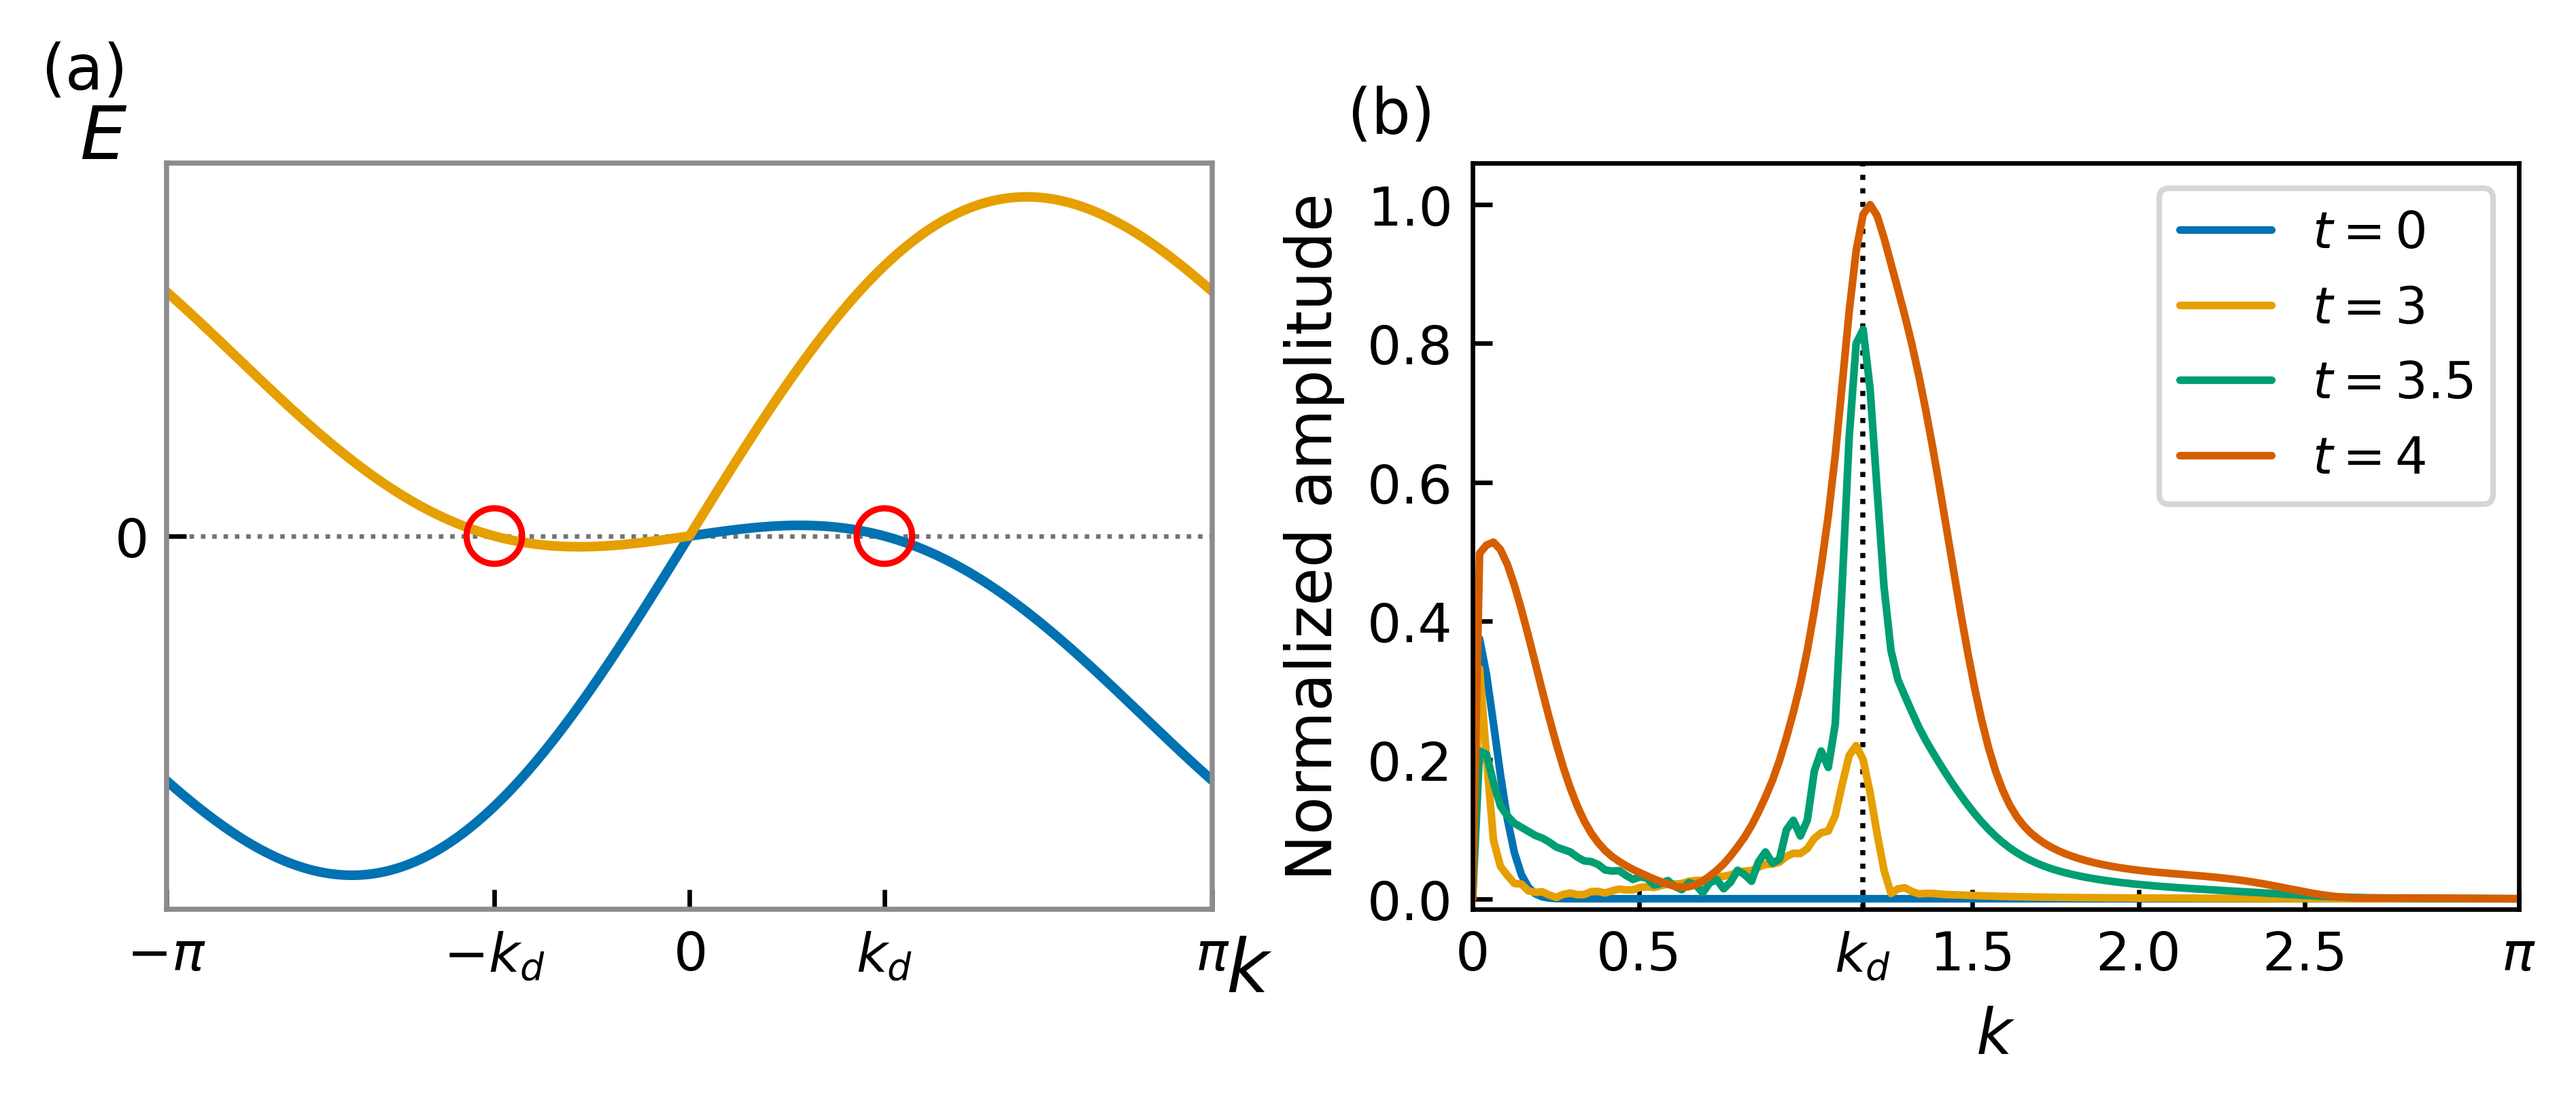
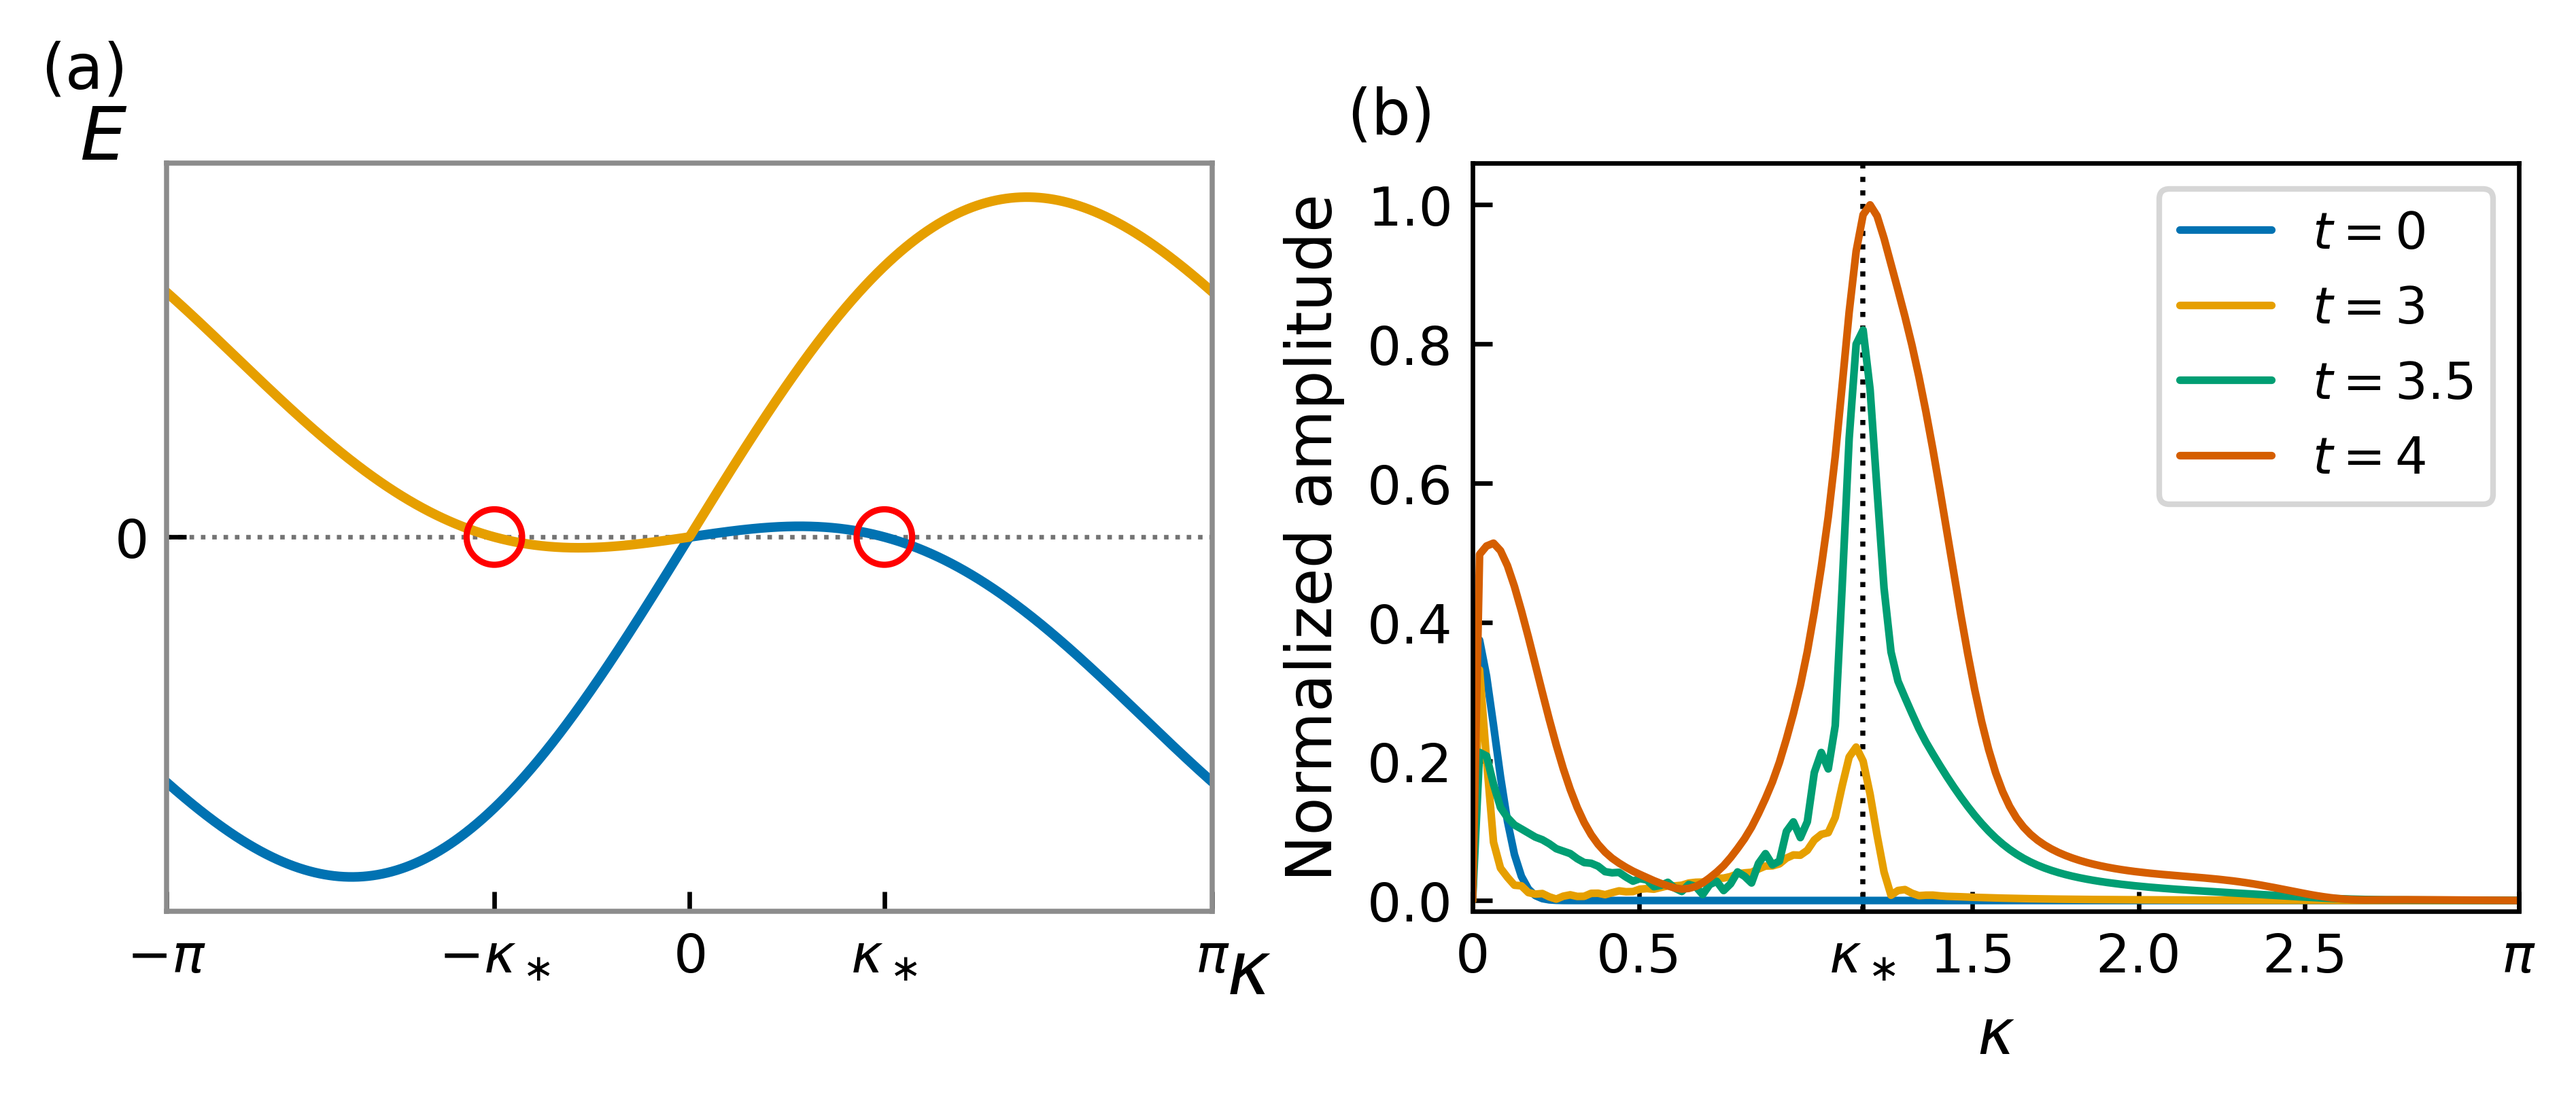
paper: synchronize figure symbols with manuscript

diff --git a/paper/main_revised.tex b/paper/main_revised.tex
@@ -1004,16 +1004,16 @@ This is caused by the excitation of doubler modes during time evolution.
 Fig.~\ref{fig:doubler_fft}(a) shows the low-energy doubler modes that appear for $p=1$ inside the horizon, where $\beta>1$, while Fig.~\ref{fig:doubler_fft}(b) shows a secondary Fourier peak growing near the predicted wavenumber.
 On the other hand, the oscillations in Figs.~\ref{fig:bh_p1}(c,d) are already present from the initial time.
 Since these wave packets are initialized inside the black hole, they already have overlap with the doubler branch indicated in Fig.~\ref{fig:doubler_fft}(a).
-Although the $p=0$ model also contains a doubler branch near $k=\pi$, the FFT analysis shows a larger doubler-mode peak for $p=1$ in the black-hole interior, explaining the more pronounced oscillations in Figs.~\ref{fig:bh_p1}(c,d).
+Although the $p=0$ model also contains a doubler branch near $\kappa=\pi$, the FFT analysis shows a larger doubler-mode peak for $p=1$ in the black-hole interior, explaining the more pronounced oscillations in Figs.~\ref{fig:bh_p1}(c,d).
 \begin{figure*}[tbp]
 \centering
 \includegraphics[width=0.82\textwidth]{figure/doubler_fft.png}
 \caption{Excitation of doubler modes in the oscillatory wave-packet dynamics for $p=1$.
 (a) Local dispersion relation at $\beta=1.2$, representative of the black-hole interior.
-The red circles mark the low-energy crossings at $k=\pm k_d$, corresponding to the doubler modes, where $k_d\simeq1.171$.
+The red circles mark the low-energy crossings at $\kappa=\pm\kappa_\ast$, corresponding to the doubler modes, where $\kappa_\ast\simeq1.171$.
 (b) Spatial FFT spectrum of the wave packet in Fig.~\ref{fig:bh_p1}(a) at successive times $t=0,3,3.5,4$, normalized by the maximum amplitude.
-The black dotted line indicates the doubler-mode wave number $k_d$ predicted from (a).
-The peak near $k=0$ corresponds to the low-momentum quasiparticle component, while the secondary peak grows near $k_d$ as the packet enters the black-hole interior.
+The black dotted line indicates the finite-momentum crossing $\kappa_\ast$ predicted from (a).
+The peak near $\kappa=0$ corresponds to the low-momentum quasiparticle component, while the secondary peak grows near $\kappa_\ast$ as the packet enters the black-hole interior.
 This agreement supports the interpretation that the oscillatory behavior in Fig.~\ref{fig:bh_p1} originates from the excitation of doubler modes.}
 \label{fig:doubler_fft}
 \end{figure*}
@@ -1056,7 +1056,7 @@ For the white-hole dynamics, we use $A=C=-0.6$, $B=3$, $x_0=2\ell/3$ (white-hole
 \begin{figure*}[t!]
 \centering
 \includegraphics[width=0.88\textwidth]{figure/WH_p=1.png}
-\caption{White-hole dynamics for $p=1$ ($L=300$, $j_0=0.2L$, $\sigma=0.05L$, with the same $\beta$ profile as Fig.~\ref{fig:wh_p0}(a), $A=C=-0.6$, $B=3$, $x_0=2\ell/3$, and $j_h\approx213$). (a) Space-time diagram of the vacuum-subtracted energy density $\delta\mathcal{E}_{j,+}$. (b) Space-time diagram of $\delta\mathcal{E}_{j,-}$. (c) Space-time diagram of the mixed contribution $\delta\mathcal{E}_{j,\mathrm{int}}$ built from $\mathcal{H}_j^{\mathrm{int}}$. Unlike the $p=0$ case, the coupling between the right- and left-moving components allows partial transmission across the white-hole horizon (black dotted line).}
+\caption{White-hole dynamics for $p=1$ ($L=300$, $j_0=0.2L$, $\sigma=0.05L$, with the same $\beta$ profile as Fig.~\ref{fig:wh_p0}(a), $A=C=-0.6$, $B=3$, $x_0=2\ell/3$, and $j_h\approx213$). (a) Space-time diagram of the vacuum-subtracted energy density $\delta\mathcal{E}_{j,+}$. (b) Space-time diagram of $\delta\mathcal{E}_{j,-}$. (c) Space-time diagram of the mixed contribution $\delta\mathcal{E}_{j,\mathrm{int}}^{(+)}$ built from $\mathcal{H}_j^{\mathrm{int}}$. Unlike the $p=0$ case, the coupling between the right- and left-moving components allows partial transmission across the white-hole horizon (black dotted line).}
 \label{fig:wh_p1}
 \end{figure*}
 For $p = 0$, as shown in Fig.~\ref{fig:wh_p0}, the wave packet is initially compressed at the white-hole horizon, yielding behavior consistent with the ideal analytical expectation. However, after a certain time, the wave packet collapses and is reflected. This behavior is attributed to a finite-size effect arising when the wave-packet standard deviation becomes smaller than the lattice spacing.

diff --git a/paper_figures/make_doubler_fft.py b/paper_figures/make_doubler_fft.py
@@ -80,10 +80,10 @@ def draw_dispersion_panel(ax) -> float:
     ax.set_xlim(-np.pi, np.pi)
     ax.set_ylim(float(lower.min()) - 0.10 * scale, float(upper.max()) + 0.10 * scale)
     ax.set_xticks([-np.pi, -kd, 0.0, kd, np.pi])
-    ax.set_xticklabels([r"$-\pi$", r"$-k_d$", r"$0$", r"$k_d$", r"$\pi$"])
+    ax.set_xticklabels([r"$-\pi$", r"$-\kappa_\ast$", r"$0$", r"$\kappa_\ast$", r"$\pi$"])
     ax.set_yticks([0.0])
     ax.set_yticklabels([r"$0$"])
-    ax.set_xlabel(r"$k$", fontsize=13)
+    ax.set_xlabel(r"$\kappa$", fontsize=13)
     ax.set_ylabel(r"$E$", rotation=0, fontsize=13)
     ax.xaxis.set_label_coords(1.035, -0.035)
     ax.yaxis.set_label_coords(-0.060, 0.985)
@@ -94,7 +94,7 @@ def draw_dispersion_panel(ax) -> float:
 
 def set_positive_k_ticks(ax, kd: float) -> None:
     ax.set_xticks([0.0, 0.5, kd, 1.5, 2.0, 2.5, np.pi])
-    ax.set_xticklabels(["0", "0.5", r"$k_d$", "1.5", "2.0", "2.5", r"$\pi$"])
+    ax.set_xticklabels(["0", "0.5", r"$\kappa_\ast$", "1.5", "2.0", "2.5", r"$\pi$"])
 
 
 def draw_fft_panel(ax, kd: float) -> None:
@@ -111,7 +111,7 @@ def draw_fft_panel(ax, kd: float) -> None:
     ax.axvline(kd, color="black", lw=0.9, ls=":", zorder=0)
     ax.set_xlim(0.0, np.pi)
     ax.set_ylim(-0.015, 1.06)
-    ax.set_xlabel(r"$k$")
+    ax.set_xlabel(r"$\kappa$")
     ax.set_ylabel("Normalized amplitude")
     set_positive_k_ticks(ax, kd)
     ax.set_yticks(np.linspace(0.0, 1.0, 6))
@@ -146,7 +146,7 @@ def main() -> None:
     fig.savefig(out, dpi=600, bbox_inches="tight")
     plt.close(fig)
     print(f"[doubler_fft] saved -> {out}")
-    print(f"[doubler_fft] doubler k = {kd:.6f}")
+    print(f"[doubler_fft] finite-momentum crossing kappa_* = {kd:.6f}")
 
 
 if __name__ == "__main__":

diff --git a/paper_figures/reproduce_panel.py b/paper_figures/reproduce_panel.py
@@ -264,7 +264,7 @@ PANEL_SPECS: dict[str, PanelSpec] = {
     ),
     "fig7c": _wh_panel(
         "FIG7c", "FIG7", "c", p=1, observable="H_pm",
-        label=r"$\delta\mathcal{E}_{j,\mathrm{int}}$", t_plot=8.0,
+        label=r"$\delta\mathcal{E}_{j,\mathrm{int}}^{(+)}$", t_plot=8.0,
         title=r"FIG7(c) $p=1$, $\mathcal{H}^{\mathrm{int}}$",
         run_id="FIG7",
     ),
